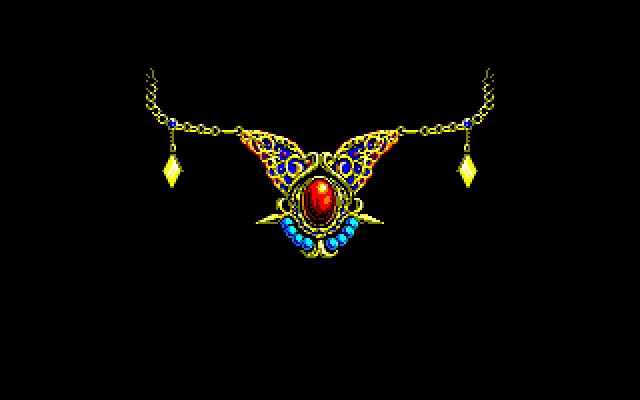
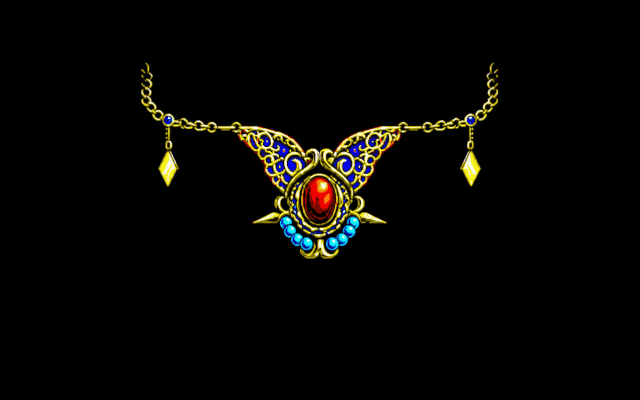
feat: tears explosion

Changed region(s): [[0.2188, 0.15, 0.7812, 0.66]]

diff --git a/opening-intro.js b/opening-intro.js
@@ -3,6 +3,9 @@ const INTRO_FADE_OUT_MS = 2000;
 const INTRO_LOGO_SRC = 'assets/images/opdemo/ttl3_logo.png';
 const INTRO_NEC_SRC = 'assets/images/opdemo/nec.png';
 const INTRO_NEC_GOLD_SRC = 'assets/images/opdemo/nec_gold.png';
+const INTRO_NEC_BROKEN_SRC = 'assets/images/opdemo/nec_broken.png';
+const INTRO_BLUE_GEM_SRC = 'assets/images/opdemo/blue.png';
+const INTRO_RED_GEM_SRC = 'assets/images/opdemo/red.png';
 const INTRO_COPYRIGHT_LINES = [
   'Copyright (C)1987,1990 GAME ARTS',
   'Copyright (C)1990 Sierra On-Line',
@@ -43,6 +46,7 @@ const STORY_LINES = [
 
 const PAGE_LOGO = 'logo';
 const PAGE_STORY = 'story';
+const PAGE_BROKEN_NEC = 'brokenNec';
 const STORY_IMAGE_FADE_IN_MS = 2000;
 const STORY_CROSSFADE_MS = 4000;
 const STORY_FONT = '16px "Press Start 2P", monospace';
@@ -50,6 +54,22 @@ const STORY_FONT_SAMPLE = 'The Age of Darkness.';
 const STORY_LINE_HEIGHT = 20;
 const STORY_START_Y = 400;
 const STORY_SCROLL_SPEED = 28;
+const NEC_FLASH_IN_MS = 200;
+const NEC_FLASH_OUT_MS = 500;
+const NEC_GEM_EXPLODE_MS = 1000;
+const NEC_BROKEN_FADE_OUT_MS = 1000;
+const NEC_GEM_EXPLOSION_CENTER = { x: 325, y: 240 };
+const NEC_GEM_COORDS = [
+  { image: 'blue', x: 280, y: 215 },
+  { image: 'blue', x: 284, y: 224 },
+  { image: 'blue', x: 293, y: 232 },
+  { image: 'blue', x: 303, y: 238 },
+  { image: 'blue', x: 321, y: 238 },
+  { image: 'blue', x: 331, y: 232 },
+  { image: 'blue', x: 340, y: 224 },
+  { image: 'blue', x: 344, y: 215 },
+  { image: 'red', x: 299, y: 172 }
+];
 
 function loadImage(src) {
   return new Promise((resolve, reject) => {
@@ -89,7 +109,13 @@ export class OpeningIntro {
     this.logoImage = null;
     this.necImage = null;
     this.necGoldImage = null;
+    this.necBrokenImage = null;
+    this.blueGemImage = null;
+    this.redGemImage = null;
     this.storyTextCanvas = null;
+    this.brokenNecStartTime = 0;
+    this.brokenNecFadeOutStartTime = 0;
+    this.explosionGems = [];
   }
 
   async start() {
@@ -99,16 +125,36 @@ export class OpeningIntro {
     this.page = PAGE_LOGO;
     this.storyStartTime = 0;
     this.storyCrossfadeStartTime = 0;
+    this.brokenNecStartTime = 0;
+    this.brokenNecFadeOutStartTime = 0;
+    this.explosionGems = [];
     this.ctx.imageSmoothingEnabled = false;
     this.screen.classList.remove('hidden');
 
     try {
-      [this.logoImage, this.necImage, this.necGoldImage] = await Promise.all([
+      [
+        this.logoImage,
+        this.necImage,
+        this.necGoldImage,
+        this.necBrokenImage,
+        this.blueGemImage,
+        this.redGemImage
+      ] = await Promise.all([
         loadImage(INTRO_LOGO_SRC),
         loadImage(INTRO_NEC_SRC),
         loadImage(INTRO_NEC_GOLD_SRC),
+        loadImage(INTRO_NEC_BROKEN_SRC),
+        loadImage(INTRO_BLUE_GEM_SRC),
+        loadImage(INTRO_RED_GEM_SRC),
         loadStoryFont()
-      ]).then(([logo, nec, necGold]) => [logo, nec, necGold]);
+      ]).then(([logo, nec, necGold, necBroken, blueGem, redGem]) => [
+        logo,
+        nec,
+        necGold,
+        necBroken,
+        blueGem,
+        redGem
+      ]);
       this.storyTextCanvas = this.createStoryTextCanvas();
     } catch (error) {
       console.error(error);
@@ -135,11 +181,17 @@ export class OpeningIntro {
 
     if (this.page === PAGE_STORY) {
       if (this.isStoryWaitingForInput()) {
-        this.finish();
         return;
       }
 
       this.skipStoryScroll();
+      return;
+    }
+
+    if (this.page === PAGE_BROKEN_NEC) {
+      if (this.isBrokenNecWaitingForInput()) {
+        this.startBrokenNecFadeOut();
+      }
     }
   }
 
@@ -153,7 +205,12 @@ export class OpeningIntro {
       return;
     }
 
-    this.drawStoryPage(timestamp);
+    if (this.page === PAGE_STORY) {
+      this.drawStoryPage(timestamp);
+      return;
+    }
+
+    this.drawBrokenNecPage(timestamp);
   }
 
   drawLogoPage(timestamp) {
@@ -196,6 +253,16 @@ export class OpeningIntro {
     this.frameId = requestAnimationFrame((timestamp) => this.draw(timestamp));
   }
 
+  startBrokenNecPage(timestamp) {
+    this.page = PAGE_BROKEN_NEC;
+    this.startTime = 0;
+    this.fadeOutStartTime = 0;
+    this.brokenNecStartTime = timestamp;
+    this.brokenNecFadeOutStartTime = 0;
+    this.explosionGems = this.createExplosionGems();
+    this.frameId = requestAnimationFrame((nextTimestamp) => this.draw(nextTimestamp));
+  }
+
   drawStoryPage(timestamp) {
     if (!this.storyStartTime) {
       this.storyStartTime = timestamp;
@@ -230,6 +297,55 @@ export class OpeningIntro {
     }
 
     this.ctx.restore();
+
+    if (this.storyCrossfadeStartTime && crossfadeElapsed >= STORY_CROSSFADE_MS) {
+      this.startBrokenNecPage(timestamp);
+      return;
+    }
+
+    this.frameId = requestAnimationFrame((nextTimestamp) => this.draw(nextTimestamp));
+  }
+
+  drawBrokenNecPage(timestamp) {
+    const elapsed = timestamp - this.brokenNecStartTime;
+    const gemElapsed = Math.max(elapsed - NEC_FLASH_IN_MS, 0);
+    const gemProgress = Math.min(gemElapsed / NEC_GEM_EXPLODE_MS, 1);
+    const fadeOutElapsed = this.brokenNecFadeOutStartTime
+      ? timestamp - this.brokenNecFadeOutStartTime
+      : 0;
+    const pageOpacity = this.brokenNecFadeOutStartTime
+      ? 1 - Math.min(fadeOutElapsed / NEC_BROKEN_FADE_OUT_MS, 1)
+      : 1;
+
+    this.ctx.fillStyle = '#000';
+    this.ctx.fillRect(0, 0, this.canvas.width, this.canvas.height);
+
+    this.ctx.save();
+    this.ctx.globalAlpha = pageOpacity;
+
+    if (elapsed < NEC_FLASH_IN_MS) {
+      this.ctx.drawImage(this.necGoldImage, 0, 0);
+    } else {
+      this.ctx.drawImage(this.necBrokenImage, 0, 0);
+      this.drawExplosionGems(gemProgress);
+    }
+
+    this.ctx.restore();
+
+    const flashOpacity = this.getBrokenNecFlashOpacity(elapsed) * pageOpacity;
+    if (flashOpacity > 0) {
+      this.ctx.save();
+      this.ctx.globalAlpha = flashOpacity;
+      this.ctx.fillStyle = '#fff';
+      this.ctx.fillRect(0, 0, this.canvas.width, this.canvas.height);
+      this.ctx.restore();
+    }
+
+    if (this.brokenNecFadeOutStartTime && fadeOutElapsed >= NEC_BROKEN_FADE_OUT_MS) {
+      this.finish();
+      return;
+    }
+
     this.frameId = requestAnimationFrame((nextTimestamp) => this.draw(nextTimestamp));
   }
 
@@ -251,6 +367,18 @@ export class OpeningIntro {
   drawStoryText(y, opacity) {
     this.ctx.globalAlpha = opacity;
     this.ctx.drawImage(this.storyTextCanvas, 0, y);
+  }
+
+  drawExplosionGems(progress) {
+    if (progress >= 1) {
+      return;
+    }
+
+    for (const gem of this.explosionGems) {
+      const x = gem.x + gem.dx * progress;
+      const y = gem.y + gem.dy * progress;
+      this.ctx.drawImage(gem.image, Math.round(x), Math.round(y));
+    }
   }
 
   createStoryTextCanvas() {
@@ -276,11 +404,23 @@ export class OpeningIntro {
   }
 
   isStoryWaitingForInput() {
-    if (this.page !== PAGE_STORY || !this.storyCrossfadeStartTime) {
+    return this.page === PAGE_STORY && !!this.storyCrossfadeStartTime;
+  }
+
+  isBrokenNecWaitingForInput() {
+    if (this.page !== PAGE_BROKEN_NEC || this.brokenNecFadeOutStartTime) {
       return false;
     }
 
-    return performance.now() - this.storyCrossfadeStartTime >= STORY_CROSSFADE_MS;
+    return performance.now() - this.brokenNecStartTime >= NEC_FLASH_IN_MS + NEC_GEM_EXPLODE_MS;
+  }
+
+  startBrokenNecFadeOut() {
+    if (this.brokenNecFadeOutStartTime) {
+      return;
+    }
+
+    this.brokenNecFadeOutStartTime = performance.now();
   }
 
   skipStoryScroll() {
@@ -289,6 +429,66 @@ export class OpeningIntro {
     }
 
     this.storyCrossfadeStartTime = performance.now();
+  }
+
+  getBrokenNecFlashOpacity(elapsed) {
+    if (elapsed < NEC_FLASH_IN_MS) {
+      return elapsed / NEC_FLASH_IN_MS;
+    }
+
+    const flashOutElapsed = elapsed - NEC_FLASH_IN_MS;
+    if (flashOutElapsed < NEC_FLASH_OUT_MS) {
+      return 1 - flashOutElapsed / NEC_FLASH_OUT_MS;
+    }
+
+    return 0;
+  }
+
+  createExplosionGems() {
+    return NEC_GEM_COORDS.map((gem) => {
+      const image = gem.image === 'red' ? this.redGemImage : this.blueGemImage;
+      const centerX = gem.x + image.width / 2;
+      const centerY = gem.y + image.height / 2;
+      const baseAngle = Math.atan2(
+        centerY - NEC_GEM_EXPLOSION_CENTER.y,
+        centerX - NEC_GEM_EXPLOSION_CENTER.x
+      );
+      const angle = baseAngle + (Math.random() - 0.5) * 1.1;
+      const ray = this.getCanvasEdgeRay(centerX, centerY, angle);
+
+      return {
+        image,
+        x: gem.x,
+        y: gem.y,
+        dx: ray.dx,
+        dy: ray.dy
+      };
+    });
+  }
+
+  getCanvasEdgeRay(x, y, angle) {
+    const vx = Math.cos(angle);
+    const vy = Math.sin(angle);
+    const distances = [];
+
+    if (vx > 0) {
+      distances.push((this.canvas.width - x) / vx);
+    } else if (vx < 0) {
+      distances.push(-x / vx);
+    }
+
+    if (vy > 0) {
+      distances.push((this.canvas.height - y) / vy);
+    } else if (vy < 0) {
+      distances.push(-y / vy);
+    }
+
+    const distance = Math.min(...distances.filter((value) => value >= 0));
+
+    return {
+      dx: vx * distance,
+      dy: vy * distance
+    };
   }
 
   finish() {
